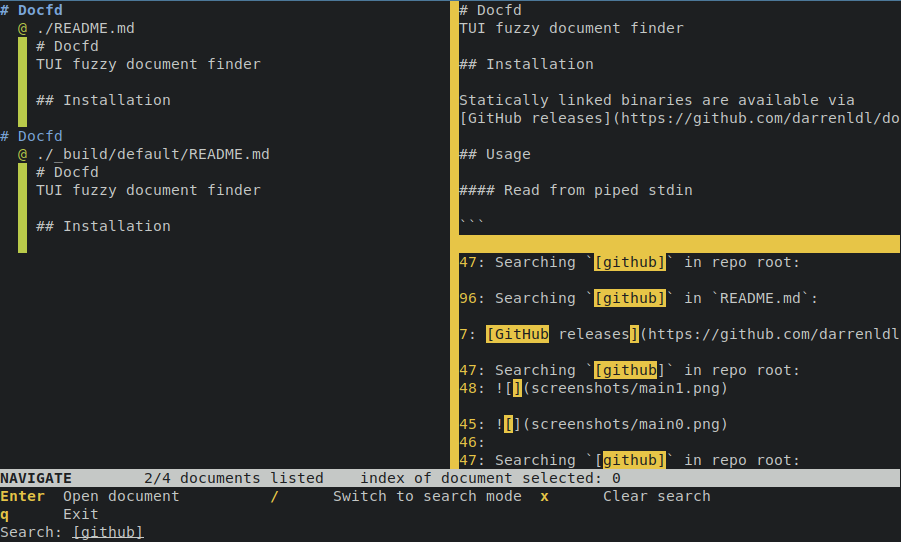
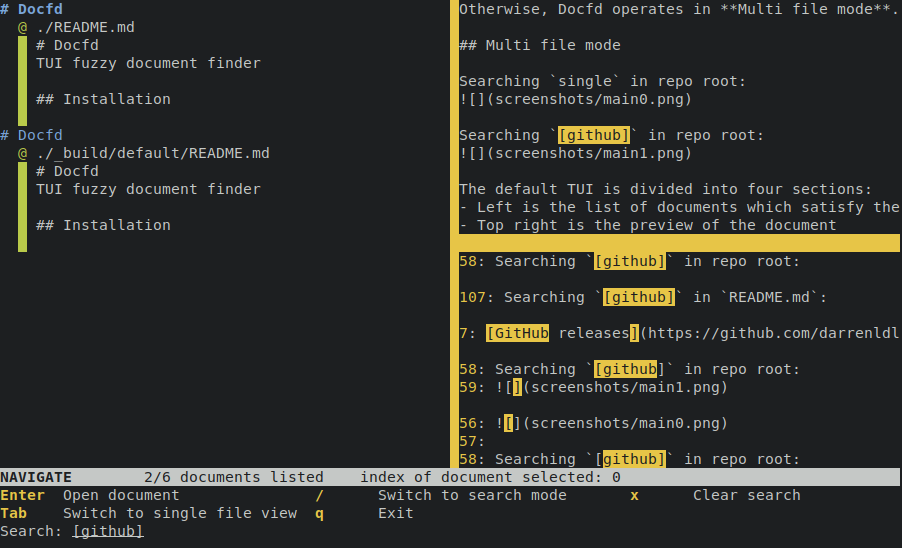
Updated README and screenshots

diff --git a/README.md b/README.md
@@ -22,7 +22,7 @@ Statically linked binaries are available via
 command | docfd
 ```
 
-Docfd operates in **Single file mode**
+Docfd uses **Single file view**
 when source of document is piped stdin.
 
 Files specified as arguments to docfd are ignored
@@ -46,13 +46,12 @@ then Docfd defaults to scanning the
 current directory `.`.
 
 If exactly one file is specified
-in the list of paths, then Docfd operates
-in **Single file mode**.
-Otherwise, Docfd operates in **Multi file mode**.
+in the list of paths, then Docfd uses **Single file view**.
+Otherwise, Docfd uses **Multi file view**.
 
-## Multi file mode
+## Multi file view
 
-Searching `single` in repo root:
+Searching `single pipe stdn` in repo root:
 ![](screenshots/main0.png)
 
 Searching `[github]` in repo root:
@@ -70,20 +69,30 @@ Docfd operates in modes, the initial mode is `Navigation` mode.
 
 `Navigation` mode
 - Scroll down the document list
-  - `j` or down arrow
+  - `j`
+  - Down arrow
+  - Page down
   - Scroll down with mouse wheel when hovering above the area
 - Scroll up the document list
-  - `k` or up arrow
+  - `k`
+  - Up arrow
+  - Page up
   - Scroll up with mouse wheel when hovering above the area
 - Scroll down the content search result list
-  - `Shift`+`j` or `Shift`+Down arrow
+  - `Shift`+`j`
+  - `Shift`+Down arrow
+  - `Shift`+Page down
   - Scroll down with mouse wheel when hovering above the area
 - Scroll up the document list
-  - `Shift`+`k` or `Shift`+Up arrow
+  - `Shift`+`k`
+  - `Shift`+Up arrow
+  - `Shift`+Page up
   - Scroll up with mouse wheel when hovering above the area
 - Open document
   - `Enter`
     - Docfd tries to use `$VISUAL` first, if that fails then Docfd tries `$EDITOR`
+- Switch to single file view
+  - `Tab`
 - Switch to `Search` mode
   - `/`
 - Clear search phrase
@@ -92,16 +101,15 @@ Docfd operates in modes, the initial mode is `Navigation` mode.
   - `q` or `Ctrl+c`
 
 `Search` mode
-
 - Search field is active in this mode
 - `Enter` to confirm search phrase and exit search mode
 
-## Single file mode
+## Single file view
 
-If the specified path to Docfd is not a directory, then single file mode
+If the specified path to Docfd is not a directory, then single file view
 is used.
 
-Searching `is left` in `README.md`:
+Searching `single pipe stdn` in `README.md`:
 ![](screenshots/single-file0.png)
 
 Searching `[github]` in `README.md`:
@@ -111,7 +119,39 @@ In this mode, the TUI is divided into only two sections:
 - Top is ranked content search result list
 - Bottom is the search interface
 
-The controls are also simplified:
-- `j`, `k`, Up arrow and Down arrow can now be used to scroll the content search result
-  list without `Shift`.
+The controls are simplified in single file view,
+namely `Shift` is optional for scrolling through search result list.
+
+`Navigation` mode
+- Scroll down the content search result list
+  - `j`
+  - Down arrow
+  - Page down
+  - `Shift`+`j`
+  - `Shift`+Down arrow
+  - `Shift`+Page down
+  - Scroll down with mouse wheel when hovering above the area
+- Scroll up the document list
+  - `k`
+  - Up arrow
+  - Page up
+  - `Shift`+`k`
+  - `Shift`+Up arrow
+  - `Shift`+Page up
+  - Scroll up with mouse wheel when hovering above the area
+- Open document
+  - `Enter`
+    - Docfd tries to use `$VISUAL` first, if that fails then Docfd tries `$EDITOR`
+- Switch to multi file view
+  - `Tab`
+- Switch to `Search` mode
+  - `/`
+- Clear search phrase
+  - `x`
+- Exit Docfd
+  - `q` or `Ctrl+c`
+
+`Search` mode
+- Search field is active in this mode
+- `Enter` to confirm search phrase and exit search mode
 
